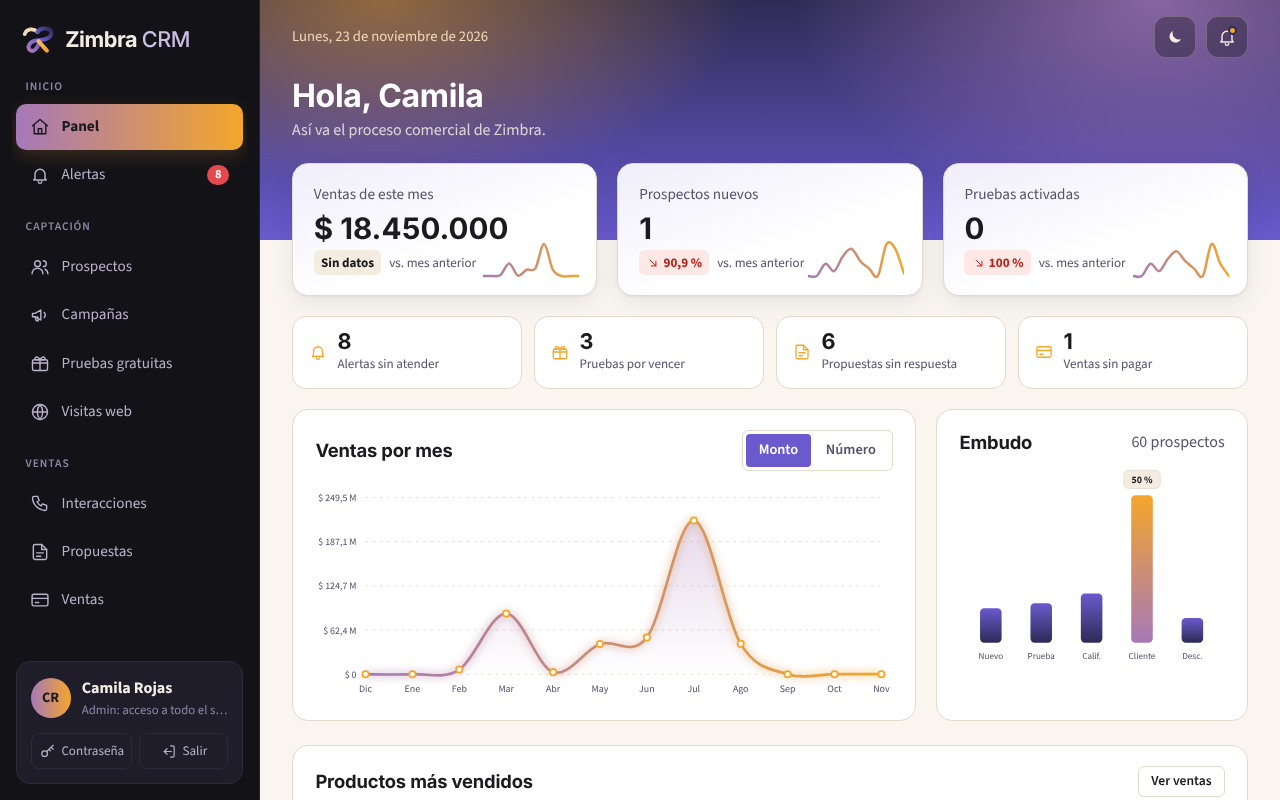
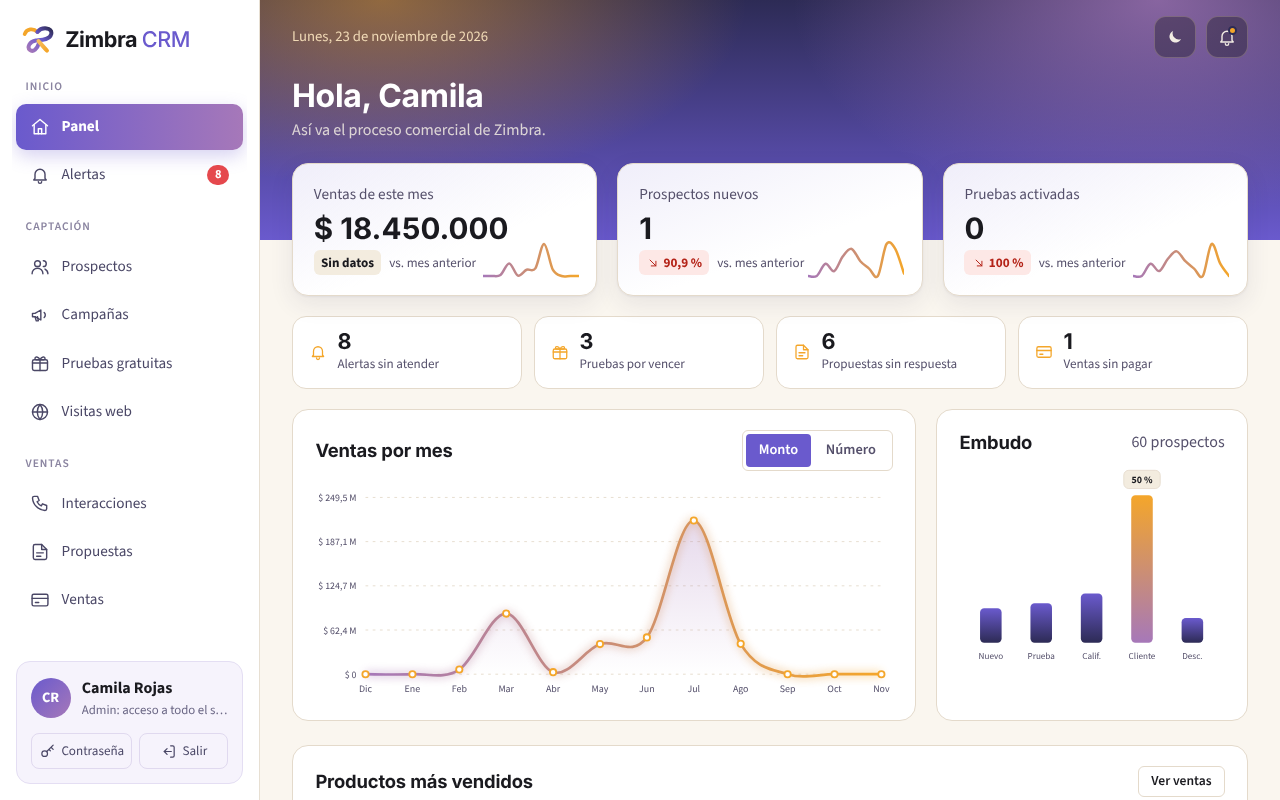
Menú lateral claro con acentos morados en el tema claro
Claude-Session: https://claude.ai/code/session_01Q1CSEXf1Umxt19NrFdcMPU

Changed region(s): [[0.0, 0.0, 0.2188, 1.0]]

diff --git a/frontend/src/App.css b/frontend/src/App.css
@@ -1097,3 +1097,29 @@ textarea.input { resize: vertical; }
   .kpi-tarjeta .sparkline { top: 1rem; bottom: auto; width: 90px; }
   .page-content > div > .page-header:first-child h2 { font-size: 1.6rem; }
 }
+
+/* ---------- Menú lateral en tema claro: fondo blanco y acentos morados ---------- */
+[data-theme='dark'] .logo-menu .logo-nombre { color: #f2ece3; }
+[data-theme='dark'] .logo-menu .logo-crm { color: #c9bde0; }
+[data-theme='light'] .sidebar {
+  background-color: #ffffff; border-right-color: #e7dfd2; color: #1a1a1f;
+}
+[data-theme='light'] .sidebar .sidebar-heading { color: #8a84a0; }
+[data-theme='light'] .sidebar .nav-item { color: #4a4766; }
+[data-theme='light'] .sidebar .nav-item:hover { background-color: #f1eefb; color: #2d2b55; }
+[data-theme='light'] .sidebar .nav-item.active {
+  background: linear-gradient(90deg, #6a5acd, #a678b9); color: #ffffff;
+  box-shadow: 0 6px 18px rgba(106, 90, 205, 0.28);
+}
+[data-theme='light'] .sidebar .nav-item.active .nav-count { background-color: #ffffff; color: #6a5acd; }
+[data-theme='light'] .sidebar .nav-item:focus-visible,
+[data-theme='light'] .sidebar-action:focus-visible { outline-color: #6a5acd; }
+[data-theme='light'] .sidebar-user { background-color: #f6f3fc; border-color: #e4def3; }
+[data-theme='light'] .sidebar-user .avatar { background: linear-gradient(135deg, #6a5acd, #a678b9); color: #ffffff; }
+[data-theme='light'] .sidebar-user-text strong { color: #1a1a1f; }
+[data-theme='light'] .sidebar-user-text span { color: #6b6785; }
+[data-theme='light'] .sidebar-action { border-color: #e0d9ef; color: #4a4766; }
+[data-theme='light'] .sidebar-action:hover { background-color: #ece8fa; color: #2d2b55; }
+@media (max-width: 900px) {
+  [data-theme='light'] .sidebar { border-bottom-color: #e7dfd2; }
+}

diff --git a/frontend/src/components/layout/Sidebar.tsx b/frontend/src/components/layout/Sidebar.tsx
@@ -61,7 +61,7 @@ export const Sidebar: React.FC<{ rutaActual: string }> = ({ rutaActual }) => {
   return (
     <aside className="sidebar">
       <Enlace to="/app" className="sidebar-brand" aria-label="Zimbra CRM, ir al panel">
-        <Logo tamano={34} className="logo-claro" />
+        <Logo tamano={34} className="logo-menu" />
       </Enlace>
 
       <nav aria-label="Módulos" className="sidebar-nav-scroll">
